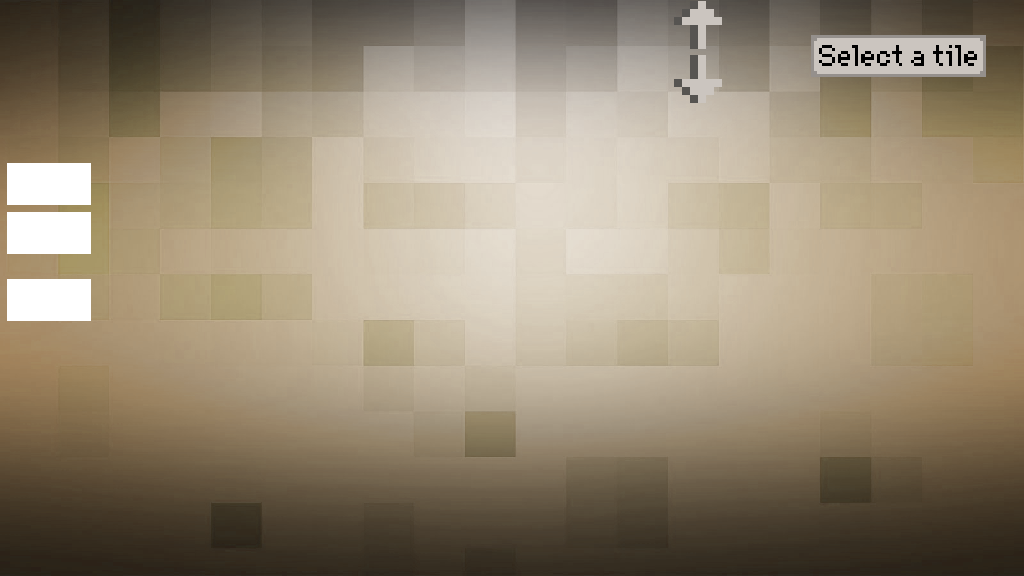
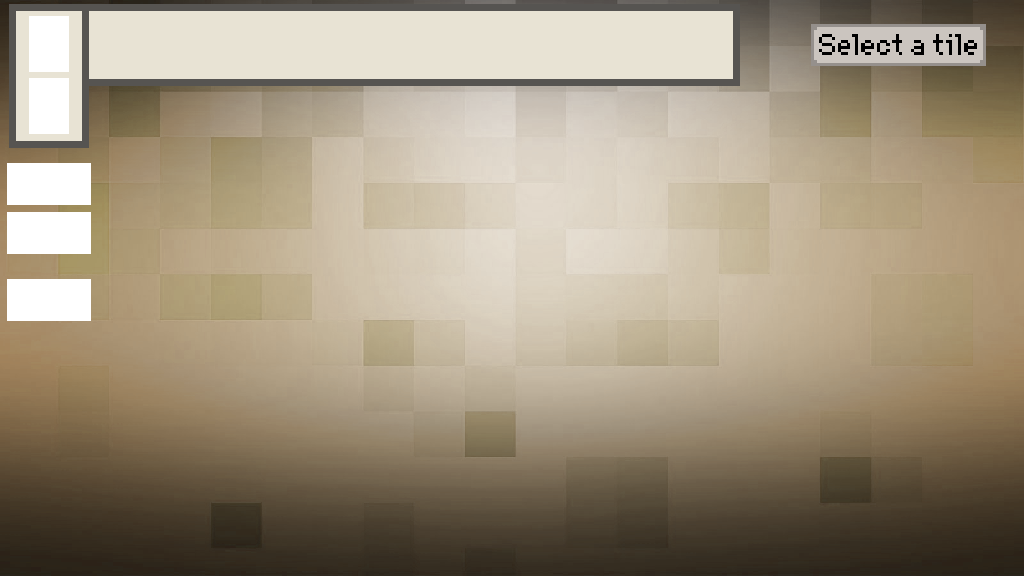
Improvement of the map editor

Changed region(s): [[0.0, 0.0, 0.75, 0.2812], [0.7812, 0.0312, 0.9688, 0.1562]]

diff --git a/src/callofmuty/GamePanel.java b/src/callofmuty/GamePanel.java
@@ -15,6 +15,7 @@ import java.awt.event.KeyEvent;
 import java.awt.event.MouseAdapter;
 import java.awt.event.MouseEvent;
 import java.awt.image.BufferedImage;
+import java.io.File;
 import java.io.IOException;
 import java.net.URISyntaxException;
 import java.nio.file.Files;
@@ -45,6 +46,10 @@ public class GamePanel extends JPanel{
             pressedleftArrowIcon = Tools.loadIcon("LeftArrowP.png"),
             rightArrowIcon = Tools.loadIcon("RightArrow.png"),
             pressedrightArrowIcon = Tools.loadIcon("RightArrowP.png"),
+            topArrowIcon = Tools.loadIcon("TopArrow.png"),
+            pressedtopArrowIcon = Tools.loadIcon("TopArrowP.png"),
+            bottomArrowIcon = Tools.loadIcon("BottomArrow.png"),
+            pressedbottomArrowIcon = Tools.loadIcon("BottomArrowP.png"),            
             exitIcon = Tools.loadIcon("Exit.png"),
             mapEditorIcon = Tools.loadIcon("EditMaps.png"),
             saveMapIcon = Tools.loadIcon("Save.png"),
@@ -233,6 +238,26 @@ public class GamePanel extends JPanel{
         leftSkinArrow.setBorderPainted(false);
         add(leftSkinArrow);
         MMbuttons.add(leftSkinArrow);
+        
+        JButton MEtopSkinArrow = new JButton();
+        MEtopSkinArrow.setIcon(topArrowIcon);
+        MEtopSkinArrow.setBounds(29, 16, topArrowIcon.getIconWidth(), topArrowIcon.getIconHeight());
+        MEtopSkinArrow.setPressedIcon(pressedtopArrowIcon);
+        MEtopSkinArrow.setVisible(true);
+        MEtopSkinArrow.setContentAreaFilled(false);
+        MEtopSkinArrow.setBorderPainted(false);
+        add(MEtopSkinArrow);
+        MEbuttons.add(MEtopSkinArrow);
+        
+        JButton MEBottomSkinArrow = new JButton();
+        MEBottomSkinArrow.setIcon(bottomArrowIcon);
+        MEBottomSkinArrow.setBounds(29, 78, bottomArrowIcon.getIconWidth(), bottomArrowIcon.getIconHeight());
+        MEBottomSkinArrow.setPressedIcon(pressedbottomArrowIcon);
+        MEBottomSkinArrow.setVisible(true);
+        MEBottomSkinArrow.setContentAreaFilled(false);
+        MEBottomSkinArrow.setBorderPainted(false);
+        add(MEBottomSkinArrow);
+        MEbuttons.add(MEBottomSkinArrow);        
         
         JButton rightMapArrow = new JButton();
         rightMapArrow.setIcon(rightArrowIcon);
@@ -494,8 +519,7 @@ public class GamePanel extends JPanel{
         loadMapButton.addActionListener(new ActionListener() {
             public void actionPerformed(ActionEvent e) {
                 playClicSound();
-                JFileChooser fileChooser = new JFileChooser("");
-	
+                JFileChooser fileChooser = new JFileChooser(new File("src/resources/maps"));
                 if (fileChooser.showOpenDialog(null)== 
                     JFileChooser.APPROVE_OPTION) {
                     String adresse = fileChooser.getSelectedFile().getPath();

diff --git a/src/callofmuty/TileSelector.java b/src/callofmuty/TileSelector.java
@@ -14,7 +14,7 @@ public class TileSelector extends Map {
             setTile(i,0,i);
         }
         selectedTile = 0;
-        super.setDrawingParameters(10,10, textureSize*getMapWidth(), textureSize*getMapHeight());
+        super.setDrawingParameters(91,13, textureSize*getMapWidth(), textureSize*getMapHeight());
     }
     
     public void draw(Graphics2D g2d, boolean setStartingTile){
@@ -22,8 +22,8 @@ public class TileSelector extends Map {
         int newXTextureSize = getDrawWidth()/getMapWidth(), newYTextureSize = getDrawHeight()/getMapHeight();
         if (!setStartingTile) { // do not draw the selection rectangle when setting the starting tile
             g2d.setStroke(new BasicStroke(5));
-            g2d.setColor(Color.lightGray);
-            g2d.drawRect(getxPos() + selectedTile * newXTextureSize, getyPos(), newXTextureSize, newYTextureSize);
+            g2d.setColor(Color.black);
+            g2d.drawRect(getxPos() + selectedTile * newXTextureSize, getyPos(), newXTextureSize, newYTextureSize-1);
         }
     }
     

diff --git a/src/callofmuty/Gun.java b/src/callofmuty/Gun.java
@@ -31,9 +31,9 @@ public class Gun {
         this.id = id;
         switch(id){
             case PISTOL:
-                ammunition = 3;
+                ammunition = 30;
                 image = pistolImage;
-                reloadTime = 500; //in milliseconds
+                reloadTime = 50; //in milliseconds
                 damage = 22;
         }
     }
